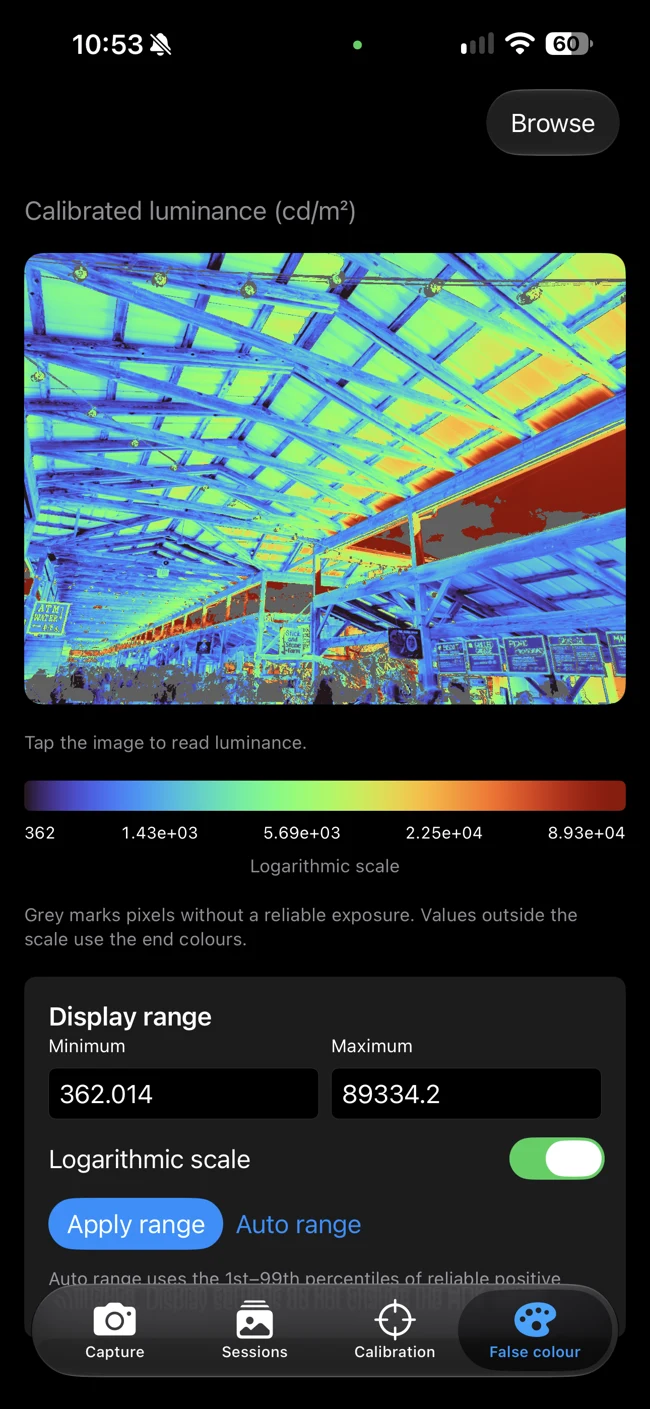
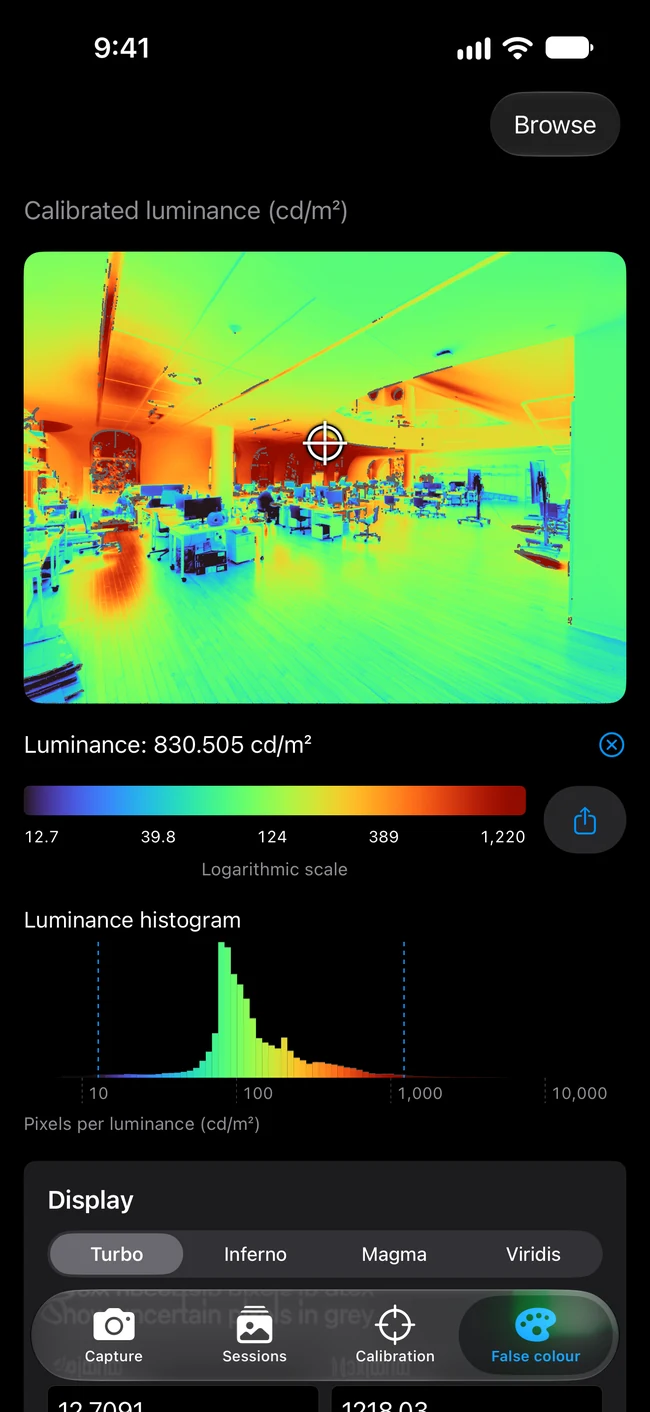
adding histogram to the visuals

diff --git a/index.html b/index.html
@@ -4,7 +4,7 @@
   <meta charset="utf-8">
   <meta name="viewport" content="width=device-width, initial-scale=1">
   <meta name="theme-color" content="#101919">
-  <meta name="description" content="HDR photography for lighting analysis. Capture exposure brackets, calibrate HDR images with spot-meter readings, and analyse luminance and glare with LumiSnap.">
+  <meta name="description" content="HDR photography for lighting analysis. Capture exposure brackets and HDR time-lapses, calibrate HDR images with spot-meter readings, and analyse luminance and glare with LumiSnap.">
   <title>LumiSnap — HDR photography for lighting analysis</title>
   <link rel="icon" href="assets/icon.png">
   <link rel="stylesheet" href="styles.css">
@@ -19,14 +19,25 @@
   <figure class="hero-image"><img src="assets/desktop-false-color.webp" alt="LumiSnap desktop showing a false-colour fisheye luminance map of an interior" width="1920" height="1196" fetchpriority="high"><figcaption><span>FALSE-COLOUR LUMINANCE MAP</span><span>Luminance · cd/m²</span></figcaption></figure>
 </section>
 <div class="platform-strip wrap"><span>Desktop and iPhone applications</span><p>macOS <b>·</b> Windows <b>·</b> Linux <b>·</b> iPhone</p></div>
+<section class="news-section wrap" id="new" aria-labelledby="new-heading">
+  <div class="news-head"><p class="eyebrow"><span class="status-dot"></span> NEW · OCTOBER 2026</p><h2 id="new-heading">What’s new</h2><p>Recent additions to LumiSnap Desktop and LumiSnap for iPhone.</p></div>
+  <div class="news-grid">
+    <article><span>IPHONE</span><h3>HDR time-lapse</h3><p>Capture 2–999 complete HDR sessions at intervals from 1 second to 24 hours, with an optional scheduled start. Each run is grouped in Sessions.</p></article>
+    <article><span>IPHONE · DESKTOP</span><h3>Luminance histograms</h3><p>See how luminance is distributed across the view. Bars follow the false-colour ramp; on desktop they can be weighted by solid angle.</p></article>
+    <article><span>IPHONE · DESKTOP</span><h3>Alignment and ghost reduction</h3><p>Exposures are aligned for small camera shifts and rotation. Where moving people or foliage disagree by more than 1 EV, a single exposure is used.</p></article>
+    <article><span>DESKTOP</span><h3>Automatic vignetting correction</h3><p>The lens is identified from EXIF and corrected with the Lensfun database, installed Adobe lens profiles or your own saved profiles.</p></article>
+    <article><span>IPHONE</span><h3>Colour ramps and PNG export</h3><p>Choose Turbo, Inferno, Magma or Viridis, and export the false-colour view with its legend at full HDR resolution.</p></article>
+    <article><span>DESKTOP</span><h3>Calibration that stays put</h3><p>Projects keep their calibration when reopened or reprocessed, saved as a portable <code>.lumisnap.json</code> project file.</p></article>
+  </div>
+</section>
 <section class="teaching-section wrap" aria-labelledby="teaching-heading"><div><p class="eyebrow">ARCHITECTURE AND DAYLIGHTING</p><h2 id="teaching-heading">Lighting research<br>and education</h2><p>LumiSnap is used to teach <strong>lighting and daylighting in architecture at Cornell University and MIT.</strong></p></div><article class="author-card"><p class="eyebrow">DEVELOPER</p><h3>Timur Dogan</h3><p class="author-role">Associate Professor of Architecture<br>Cornell University</p><p>Timur directs Cornell’s Environmental Systems Lab. His research connects daylighting, building performance simulation and architectural design, bringing a research and teaching perspective to LumiSnap.</p><a class="text-link" href="https://aap.cornell.edu/people/timur-dogan/">Cornell faculty profile <span aria-hidden="true">↗</span></a></article></section>
 <section class="section wrap" id="desktop">
   <div class="section-heading"><p class="eyebrow">01 / LUMISNAP DESKTOP</p><h2>HDR processing and<br>luminance analysis</h2><p>Merge bracketed photographs, apply lens corrections, calibrate against measured luminance, and export analysis results.</p></div>
-  <div class="features"><article><span>01</span><h3>Merge & prepare</h3><p>Combine bracketed JPEGs into linear HDR. Align exposures, correct fisheye geometry and apply vignetting corrections.</p></article><article><span>02</span><h3>Calibrate & inspect</h3><p>Connect image values to spot-meter readings. Explore luminance in cd/m² with false colour, iso-lines and region statistics.</p></article><article><span>03</span><h3>Analyse & export</h3><p>Explore illuminance and glare with Ev, DGP and UGR, compare with evalglare, and export HDR, PNG and CSV results. The glare workflow requires a fisheye lens and a complete 180° hemispheric view.</p></article></div>
-  <div class="screenshot-grid"><figure><img src="assets/desktop-calibration.webp" alt="Desktop calibration workspace with spot-meter readings placed on a fisheye photograph" loading="lazy" width="1600" height="997"><figcaption>Calibration with spot-meter readings</figcaption></figure><figure><img src="assets/desktop-glare.webp" alt="Desktop glare analysis with detected light sources and analysis results" loading="lazy" width="1600" height="997"><figcaption>Glare source detection and analysis</figcaption></figure></div>
+  <div class="features"><article><span>01</span><h3>Merge & prepare</h3><p>Combine bracketed JPEGs into linear HDR with exposure alignment and ghost reduction. Correct fisheye geometry, with vignetting taken automatically from Lensfun, Adobe or your own lens profiles.</p></article><article><span>02</span><h3>Calibrate & inspect</h3><p>Connect image values to spot-meter readings. Explore luminance in cd/m² with false colour, iso-lines, region statistics and a luminance histogram weighted by solid angle.</p></article><article><span>03</span><h3>Analyse & export</h3><p>Explore illuminance and glare with Ev, DGP and UGR, compare with evalglare, and export HDR, PNG and CSV results. The glare workflow requires a fisheye lens and a complete 180° hemispheric view.</p></article></div>
+  <div class="screenshot-grid"><figure><img src="assets/desktop-calibration.webp" alt="Desktop calibration workspace with spot-meter readings placed on a fisheye photograph" loading="lazy" width="1600" height="997"><figcaption>Calibration with spot-meter readings</figcaption></figure><figure><img src="assets/desktop-glare.webp" alt="Desktop glare analysis with detected light sources and analysis results" loading="lazy" width="1600" height="997"><figcaption>Glare source detection and analysis</figcaption></figure><figure><img src="assets/desktop-histogram.webp" alt="Desktop analysis of a calibrated iPhone session: false-colour luminance map with reference points and a solid-angle weighted luminance histogram" loading="lazy" width="1600" height="997"><figcaption>Luminance histogram of a calibrated iPhone session</figcaption></figure><figure><img src="assets/desktop-lens-profile.webp" alt="Desktop lens step on a real fisheye photograph of a lecture hall: image circle fitted and the Sigma 8mm vignetting profile found automatically in the Lensfun database" loading="lazy" width="1600" height="997"><figcaption>Automatic vignetting correction from a lens profile</figcaption></figure></div>
 </section>
-<section class="mobile-section" id="iphone"><div class="wrap mobile-layout"><div class="mobile-copy"><p class="eyebrow">02 / LUMISNAP FOR IPHONE</p><h2>HDR capture and<br>calibration on iPhone</h2><p>Capture exposure brackets, inspect false-colour luminance maps, and transfer saved sessions to LumiSnap Desktop.</p><ul><li>Adaptive Bayer RAW capture on supported devices</li><li>Saved sessions with false-colour and coverage views</li><li>Image-point calibration with spot-meter readings</li><li>Portable session ZIPs for the desktop workflow</li></ul><a class="text-link" href="guide.html#iphone-workflow">Read the iPhone workflow <span aria-hidden="true">↗</span></a><p class="fine">Capture capabilities depend on your iPhone, lens and iOS version. Physical measurement validation is required.</p></div><figure class="phone"><img src="assets/iphone.webp" alt="LumiSnap on iPhone displaying a false-colour luminance image, legend and display-range controls" loading="lazy" width="650" height="1409"></figure></div></section>
-<section class="section wrap workflow" id="workflow"><p class="eyebrow">03 / MEASUREMENT WORKFLOW</p><h2>Capture, calibration<br>and analysis</h2><p class="workflow-intro">Take reference measurements during capture, calibrate the HDR image, and transfer images and measurement data between devices.</p><div class="steps"><article><span>CAPTURE</span><h3>Capture exposure brackets</h3><p>Shoot an exposure sequence on iPhone or use bracketed JPEGs from your camera.</p></article><article><span>CALIBRATE</span><h3>Enter reference measurements</h3><p>Use spot-meter readings to scale the HDR image to measured luminance.</p></article><article><span>ANALYSE</span><h3>Transfer and analyse results</h3><p>Export a finished iPhone session to desktop with its saved HDR and measurement data, then inspect and share your results.</p></article></div></section>
+<section class="mobile-section" id="iphone"><div class="wrap mobile-layout"><div class="mobile-copy"><p class="eyebrow">02 / LUMISNAP FOR IPHONE</p><h2>HDR capture and<br>calibration on iPhone</h2><p>Capture single brackets or HDR time-lapses, inspect false-colour luminance maps and histograms, and transfer saved sessions to LumiSnap Desktop.</p><ul><li>Adaptive Bayer RAW capture on supported devices</li><li>HDR time-lapse with an optional scheduled start</li><li>Frame alignment and ghost reduction</li><li>False colour with four colour ramps and a luminance histogram</li><li>Image-point calibration with spot-meter readings</li><li>Portable session ZIPs and false-colour PNG exports</li></ul><a class="text-link" href="guide.html#iphone-workflow">Read the iPhone workflow <span aria-hidden="true">↗</span></a><p class="fine">Capture capabilities depend on your iPhone, lens and iOS version. Physical measurement validation is required.</p></div><figure class="phone"><img src="assets/iphone.webp" alt="LumiSnap on iPhone displaying a calibrated false-colour luminance image with a luminance readout, legend and luminance histogram" loading="lazy" width="650" height="1412"></figure></div></section>
+<section class="section wrap workflow" id="workflow"><p class="eyebrow">03 / MEASUREMENT WORKFLOW</p><h2>Capture, calibration<br>and analysis</h2><p class="workflow-intro">Take reference measurements during capture, calibrate the HDR image, and transfer images and measurement data between devices.</p><div class="steps"><article><span>CAPTURE</span><h3>Capture exposure brackets</h3><p>Shoot an exposure sequence or an HDR time-lapse on iPhone, or use bracketed JPEGs from your camera.</p></article><article><span>CALIBRATE</span><h3>Enter reference measurements</h3><p>Use spot-meter readings to scale the HDR image to measured luminance.</p></article><article><span>ANALYSE</span><h3>Transfer and analyse results</h3><p>Export a finished iPhone session to desktop with its saved HDR and measurement data, then inspect and share your results.</p></article></div></section>
 <section class="learn-section wrap" id="learn"><div class="learn-copy"><p class="eyebrow">04 / A FIELD GUIDE FOR ARCHITECTURE STUDENTS</p><h2>A practical guide<br>to HDR measurement</h2><p>Learn camera setup, exposure bracketing, luminance calibration and methods for daylight and glare studies.</p><ul><li>Camera setup & capture strategy</li><li>Luminance, illuminance & calibration</li><li>Example exposure series & editable diagrams</li></ul><a class="button" href="guide.html">Read the HDR field guide <span aria-hidden="true">↗</span></a><p class="learn-reference">With further reading from J. Alstan Jakubiec, Mehlika Inanici and colleagues.</p></div><figure><img src="assets/tutorial/capture-setup.svg" alt="Editable plan and section diagram showing a fisheye camera at the observer position and eye height" width="1200" height="710" loading="lazy"><figcaption>Camera position and orientation for fisheye capture</figcaption></figure></section>
 <section class="get-section wrap" id="get"><div><p class="eyebrow">GET LUMISNAP</p><h2>Download LumiSnap</h2></div><div class="availability"><article><h3>LumiSnap Desktop</h3><p>macOS · Windows · Linux</p><a id="desktop-download" class="button" hidden>Download desktop <span aria-hidden="true">↗</span></a><p id="desktop-pending" class="release-note">Download link coming soon.</p></article><article><h3>LumiSnap for iPhone</h3><p>HDR capture and luminance analysis</p><a id="ios-download" class="button secondary" hidden>Get the iPhone app <span aria-hidden="true">↗</span></a><p id="ios-pending" class="release-note">iPhone availability coming soon.</p></article></div></section>
 </main>

diff --git a/guide.html b/guide.html
@@ -75,7 +75,7 @@
 <section class="guide-section" id="process">
   <p class="eyebrow">06 / IMAGE PROCESSING AND VALIDATION</p><h2>HDR calibration and validation</h2>
   <figure class="diagram"><div class="diagram-scroll" tabindex="0" aria-label="Processing workflow diagram; scroll horizontally on small screens"><img src="assets/tutorial/processing-workflow.svg" alt="Merge exposures, correct lens geometry and vignetting, calibrate using spot readings, independently validate, then analyse daylight or fisheye glare" width="1200" height="845" loading="lazy"></div><figcaption>The desktop workflow, with checks before interpretation. <a href="assets/tutorial/processing-workflow.svg" download>Download editable SVG ↓</a></figcaption></figure>
-  <ol class="practical-list"><li><strong>Merge and inspect.</strong> Import JPEG brackets with correct exposure metadata, or open a completed iPhone session. Check alignment, coverage and bright-source detail. Do not merge tone-mapped screenshots.</li><li><strong>Prepare the lens.</strong> For a fisheye, confirm the image circle, true field of view and projection. Apply the relevant measured vignetting correction. LumiSnap can resample to the angular fisheye used by Radiance and evalglare; the camera’s own fisheye projection may differ.</li><li><strong>Add spot readings.</strong> Select the same patches in the HDR and enter cd/m². A simple example: a target that reads 120 in the unscaled image and 150 cd/m² on the meter implies a scale factor of 150 ÷ 120 = 1.25. LumiSnap combines multiple valid points and shows their deviations.</li><li><strong>Validate separately.</strong> Compare a held-out target and the measured Ev with the image. A target used to fit the scale is not an independent validation. Report disagreements; do not keep rescaling until every check appears to pass. <a class="ref" href="#ref-pierson">[4]</a></li></ol>
+  <ol class="practical-list"><li><strong>Merge and inspect.</strong> Import JPEG brackets with correct exposure metadata, or open a completed iPhone session. Check alignment, coverage and bright-source detail. Do not merge tone-mapped screenshots.</li><li><strong>Prepare the lens.</strong> For a fisheye, confirm the image circle, true field of view and projection. Apply the relevant vignetting correction: LumiSnap Desktop identifies the lens from EXIF and takes its profile from the Lensfun database, installed Adobe lens profiles or a profile you measured and saved yourself. Published profiles were measured on other bodies; your own measurement is more accurate. LumiSnap can resample to the angular fisheye used by Radiance and evalglare; the camera’s own fisheye projection may differ.</li><li><strong>Add spot readings.</strong> Select the same patches in the HDR and enter cd/m². A simple example: a target that reads 120 in the unscaled image and 150 cd/m² on the meter implies a scale factor of 150 ÷ 120 = 1.25. LumiSnap combines multiple valid points and shows their deviations.</li><li><strong>Validate separately.</strong> Compare a held-out target and the measured Ev with the image. A target used to fit the scale is not an independent validation. Report disagreements; do not keep rescaling until every check appears to pass. <a class="ref" href="#ref-pierson">[4]</a></li></ol>
   <div class="table-scroll"><table><caption>When a check disagrees, look for a cause</caption><thead><tr><th scope="col">Observation</th><th scope="col">What to investigate</th></tr></thead><tbody><tr><th scope="row">One spot is far from the others</th><td>Wrong target, aiming error, glossy material, too-small patch, shadow, movement or changed light.</td></tr><tr><th scope="row">Errors grow near the image edge</th><td>Vignetting, an incorrect projection, field of view or image circle.</td></tr><tr><th scope="row">Spot checks agree but image Ev is low</th><td>Missing/clipped sources, cropped hemisphere, lens correction, sensor orientation or a time mismatch.</td></tr><tr><th scope="row">Bright halos or duplicate people</th><td>Lens flare or motion between exposures. Alignment cannot turn a changing scene into a static measurement.</td></tr></tbody></table></div>
   <p><strong>For glare:</strong> use the calibrated full fisheye at the intended viewpoint, inspect the source-detection image, and compare with evalglare on desktop. Source luminance, angular size, position and eye illuminance all matter. Any replacement of clipped source values is an estimate; preserve its method and measured inputs in the report. <a class="ref" href="#ref-jakubiec-plea">[3]</a></p>
   <p><strong>For a design comparison:</strong> retain common units and colour limits, matched views, sky conditions and light settings. Save the original bracket, measurement log, lens corrections, calibrated HDR and processing settings. Report the moment and viewpoint the image represents; a false-colour PNG is useful communication, but does not retain the full HDR data.</p>
@@ -110,7 +110,7 @@
   <figure class="diagram"><div class="diagram-scroll" tabindex="0" aria-label="Contrast diagram; scroll horizontally on small screens"><img src="assets/tutorial/design-contrast.svg" alt="Task, surround and periphery zones with the ratio 1 : 1/3 : 1/10, and two log-luminance histograms: narrow for a calm view and wide with two peaks for a dramatic view" width="1200" height="730" loading="lazy"></div><figcaption>Spatial contrast sums luminance differences between neighbouring pixels at several image resolutions. Example histograms. <a href="assets/tutorial/design-contrast.svg" download>Download editable SVG ↓</a></figcaption></figure>
 
   <h3 id="use-dynamics">4 / “How does it change over time?” Dynamics</h3>
-  <dl class="use-meta"><div><dt>Design variables</dt><dd>Orientation, seasonal sun penetration, the atmosphere of the space through the day.</dd></div><div><dt>Metric</dt><dd>An HDR time-lapse from a fixed camera: the 40° band mean and the contrast for each capture, and the number of captures, or hours, above a glare threshold.</dd></div><div><dt>Read it as</dt><dd>Treat each capture as standing for its interval. EN 17037 states glare protection as a DGP not exceeded for more than 5% of the occupied time: 0.45, 0.40 or 0.35 for its three levels. <a class="ref" href="#ref-en17037">[10]</a></dd></div></dl>
+  <dl class="use-meta"><div><dt>Design variables</dt><dd>Orientation, seasonal sun penetration, the atmosphere of the space through the day.</dd></div><div><dt>Metric</dt><dd>An HDR time-lapse from a fixed camera (LumiSnap for iPhone: <strong>Automation → Time-lapse</strong>): the 40° band mean and the contrast for each capture, and the number of captures, or hours, above a glare threshold.</dd></div><div><dt>Read it as</dt><dd>Treat each capture as standing for its interval. EN 17037 states glare protection as a DGP not exceeded for more than 5% of the occupied time: 0.45, 0.40 or 0.35 for its three levels. <a class="ref" href="#ref-en17037">[10]</a></dd></div></dl>
   <figure class="diagram"><div class="diagram-scroll" tabindex="0" aria-label="Time-lapse diagram; scroll horizontally on small screens"><img src="assets/tutorial/design-dynamics.svg" alt="Hourly captures from 8:00 to 18:00 in a west-facing studio: the 40° band mean rises above 30 cd/m² in the afternoon and DGP exceeds 0.40 in two late-afternoon captures" width="1200" height="750" loading="lazy"></div><figcaption>A single midday capture would miss both the calm morning and the late-afternoon glare. Example values. <a href="assets/tutorial/design-dynamics.svg" download>Download editable SVG ↓</a></figcaption></figure>
   <p>Daylight changes between captures, so record a spot reading and Ev each time, or keep a fixed reference target in the frame. One day is a sample, not a year: choose dates from the sun path, or extend the study with simulation (question 6).</p>
 
@@ -140,10 +140,10 @@
   <p class="eyebrow">IPHONE / CAPTURE TO DESKTOP</p><h2 id="iphone-workflow-heading">iPhone capture and analysis workflow</h2>
   <p>These two sessions were captured with LumiSnap on iPhone using the Ultra Wide lens. Each includes its original Bayer RAW exposures, a merged HDR image and saved luminance reference points. Use them to follow the workflow from capture to desktop analysis.</p>
   <ol class="practical-list">
-    <li><strong>Capture an exposure bracket.</strong> In <strong>Capture</strong>, select a lens that supports Bayer RAW. Keep the phone fixed and the scene static; a tripod is preferable. Automatic capture adjusts the bracket to cover the scene. Wait until capture and processing finish before moving the phone.</li>
+    <li><strong>Capture an exposure bracket.</strong> In <strong>Capture</strong>, select a lens that supports Bayer RAW. Keep the phone fixed and the scene static; a tripod is preferable. Automatic capture adjusts the bracket to cover the scene. Wait until capture and processing finish before moving the phone. <strong>Align frames</strong> and <strong>Reduce ghosts</strong> (camera settings, both on by default) correct small camera movement and use a single exposure where moving people or objects disagree; they do not replace a steady camera. For a study over time, open the sliders button → <strong>Automation → Time-lapse</strong> and choose the number of sessions, the interval and an optional start time. Keep the phone in place and LumiSnap open for the whole run.</li>
     <li><strong>Review the merged session.</strong> Open <strong>Sessions</strong>. The HDR merges automatically. Inspect <strong>HDR</strong>, <strong>Coverage</strong> and individual <strong>Frames</strong> for clipping, dark areas, alignment errors or movement before using the image for measurement.</li>
     <li><strong>Enter reference readings.</strong> In <strong>Calibration</strong>, tap uniform patches in the image and enter the corresponding spot-meter readings in cd/m². Match each image region to the measured patch, review the sampling radius, then tap <strong>Apply calibration</strong>. Points save automatically. Review residuals and check a separate target that was not used in the fit.</li>
-    <li><strong>Inspect luminance.</strong> Open <strong>False colour</strong>. Tap the image for a luminance readout; set the minimum, maximum and logarithmic or linear display range. Grey pixels are excluded from measurement. Display settings change the view, not the HDR values.</li>
+    <li><strong>Inspect luminance.</strong> Open <strong>False colour</strong>. Tap the image for a luminance readout; set the minimum, maximum and logarithmic or linear display range, and choose a colour ramp (Turbo, Inferno, Magma or Viridis). The luminance histogram below the image shows how the view is distributed; dashed lines mark the display range. Grey pixels are excluded from measurement. Display settings change the view, not the HDR values. The share button exports the view with its legend as a full-resolution PNG.</li>
     <li><strong>Export or continue on desktop.</strong> Use the up-arrow in <strong>Sessions</strong> to export a calibrated HDR or a bracket-series ZIP. The ZIP preserves RAW originals, the saved working HDR and calibration data. In LumiSnap Desktop, choose <strong>Open project…</strong> and select the ZIP, or extract it and open <code>session.lumisnap.json</code>. The saved HDR opens without redeveloping the DNGs.</li>
   </ol>
   <div id="iphone-examples" class="iphone-examples" aria-label="iPhone capture examples">

diff --git a/styles.css b/styles.css
@@ -3,3 +3,5 @@
 .teaching-section{display:grid;grid-template-columns:1.3fr 1fr;gap:90px;padding-block:70px;border-bottom:1px solid var(--line);align-items:center}.teaching-section h2{font-size:clamp(36px,4.5vw,54px);margin-block:22px}.teaching-section>div>p:last-child{color:var(--muted);font-size:17px;max-width:550px}.teaching-section strong{color:var(--text);font-weight:500}.author-card{padding:28px 32px;border:1px solid var(--line);border-radius:8px;background:#19251f}.author-card h3{font-size:29px;margin:15px 0 6px}.author-card p:not(.eyebrow){color:var(--muted);font-size:14px;margin-bottom:20px}.author-card .author-role{color:var(--text)!important}.author-card .text-link{color:var(--accent);font-size:13px}.learn-section{border-top:1px solid var(--line);display:grid;grid-template-columns:1fr 1.15fr;gap:60px;align-items:center;padding-block:75px}.learn-section h2{font-size:clamp(38px,4.5vw,56px);margin:22px 0}.learn-copy>p:not(.eyebrow){color:var(--muted);font-size:16px}.learn-copy ul{list-style:none;margin:24px 0;padding:0;color:var(--text);font-size:14px}.learn-copy li{margin-block:9px}.learn-copy li:before{content:'↗';color:var(--accent);margin-right:12px}.learn-copy .learn-reference{font-size:12px!important;margin-top:20px;max-width:390px}.learn-section figure img{border-radius:6px;border:1px solid #b8c9ba}.learn-section figcaption{font-size:12px}@media(max-width:850px){.teaching-section{gap:35px}.learn-section{gap:35px}}@media(max-width:700px){.teaching-section,.learn-section{grid-template-columns:1fr;gap:30px;padding-block:50px}.teaching-section h2{font-size:40px}.author-card{padding:24px}.learn-section h2{font-size:40px}}
 .hero-bottom{gap:32px}.hero-bottom p{max-width:640px}.hero-bottom .button{flex-shrink:0}.workflow h2{margin-bottom:24px}.workflow-intro{max-width:720px;color:var(--muted);font-size:17px;margin-bottom:45px}
 @media(max-width:700px){.hero h1{font-size:clamp(48px,13vw,90px)}}
+
+.news-section{padding-block:80px;border-bottom:1px solid var(--line)}.news-head{display:grid;grid-template-columns:1.4fr 1fr;gap:12px 24px;align-items:end}.news-head .eyebrow{grid-column:1/-1}.news-head>p:last-child{color:var(--muted);font-size:17px;max-width:390px;justify-self:end}.news-grid{display:grid;grid-template-columns:repeat(3,1fr);gap:36px 40px;margin-top:50px}.news-grid article{border-top:1px solid var(--line);padding-top:20px}.news-grid span{font-size:11px;letter-spacing:1.5px;color:var(--accent)}.news-grid p{color:var(--muted);font-size:15px}.news-grid code{font-size:13px;color:var(--text)}@media(max-width:850px){.news-grid{grid-template-columns:1fr 1fr}}@media(max-width:700px){.news-section{padding-block:55px}.news-head,.news-grid{grid-template-columns:1fr}.news-head>p:last-child{justify-self:start}.news-grid{gap:25px;margin-top:32px}}
